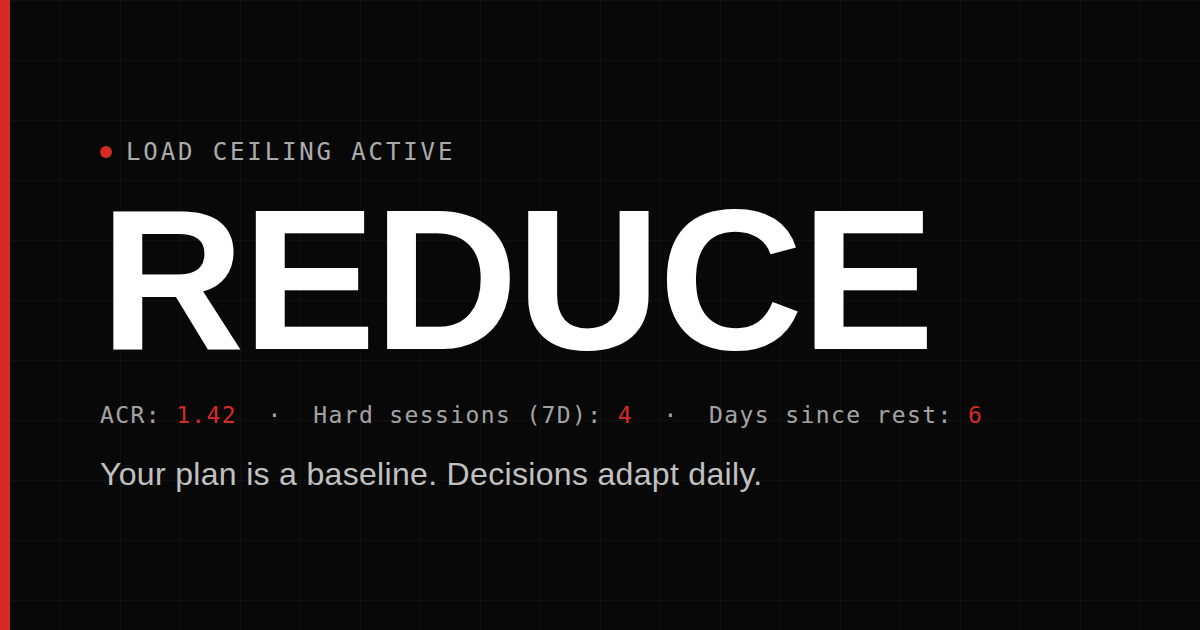
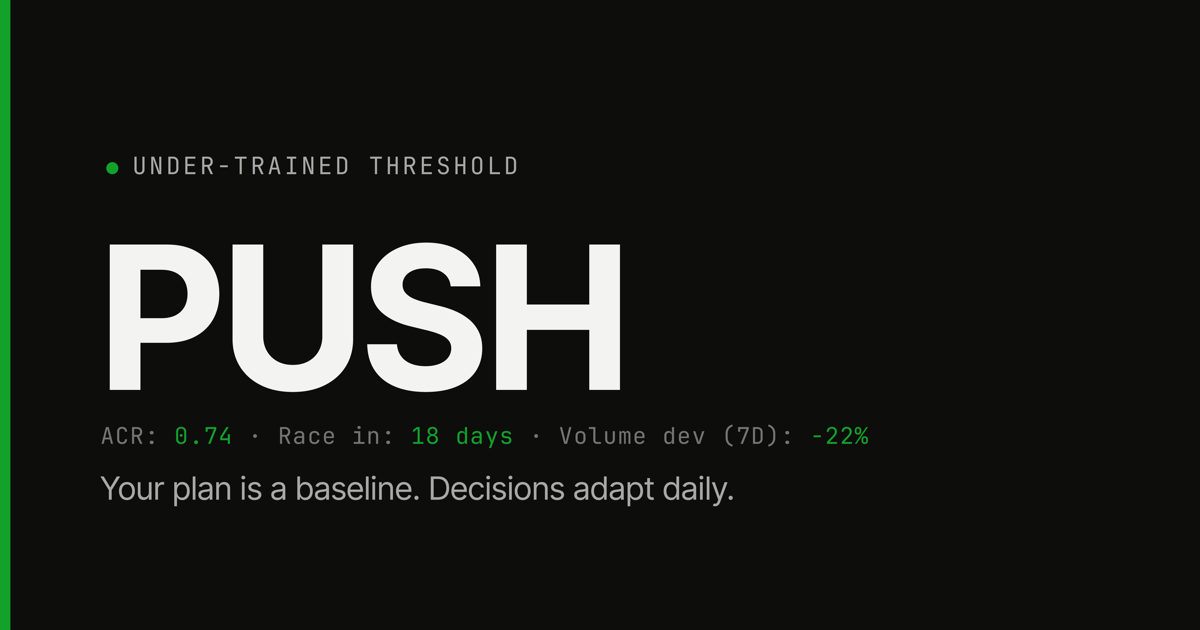
Update OG image (1200x630) with cache-busting meta tags

Changed region(s): [[0.0617, 0.3317, 0.8325, 0.8143], [0.0, 0.0, 0.0308, 1.0], [0.0617, 0.2111, 0.4317, 0.2714]]

diff --git a/index.html b/index.html
@@ -9,7 +9,9 @@
 <!-- Open Graph -->
 <meta property="og:title" content="Tactician — Training execution system for serious runners" />
 <meta property="og:description" content="A deterministic, rules-based engine that decides what to change in your training, and why. Built for runners who execute on data, not feel." />
-<meta property="og:image" content="https://tactician.run/og_image.png" />
+<meta property="og:image" content="https://tactician.run/og_image.png?v=2" />
+<meta property="og:image:width" content="1200" />
+<meta property="og:image:height" content="630" />
 <meta property="og:url" content="https://tactician.run" />
 <meta property="og:type" content="website" />
 
@@ -17,7 +19,7 @@
 <meta name="twitter:card" content="summary_large_image" />
 <meta name="twitter:title" content="Tactician — Training execution system for serious runners" />
 <meta name="twitter:description" content="A deterministic, rules-based engine that decides what to change in your training, and why. Built for runners who execute on data, not feel." />
-<meta name="twitter:image" content="https://tactician.run/og_image.png" />
+<meta name="twitter:image" content="https://tactician.run/og_image.png?v=2" />
 
 <link rel="icon" href="favicon.svg" type="image/svg+xml" />
 
